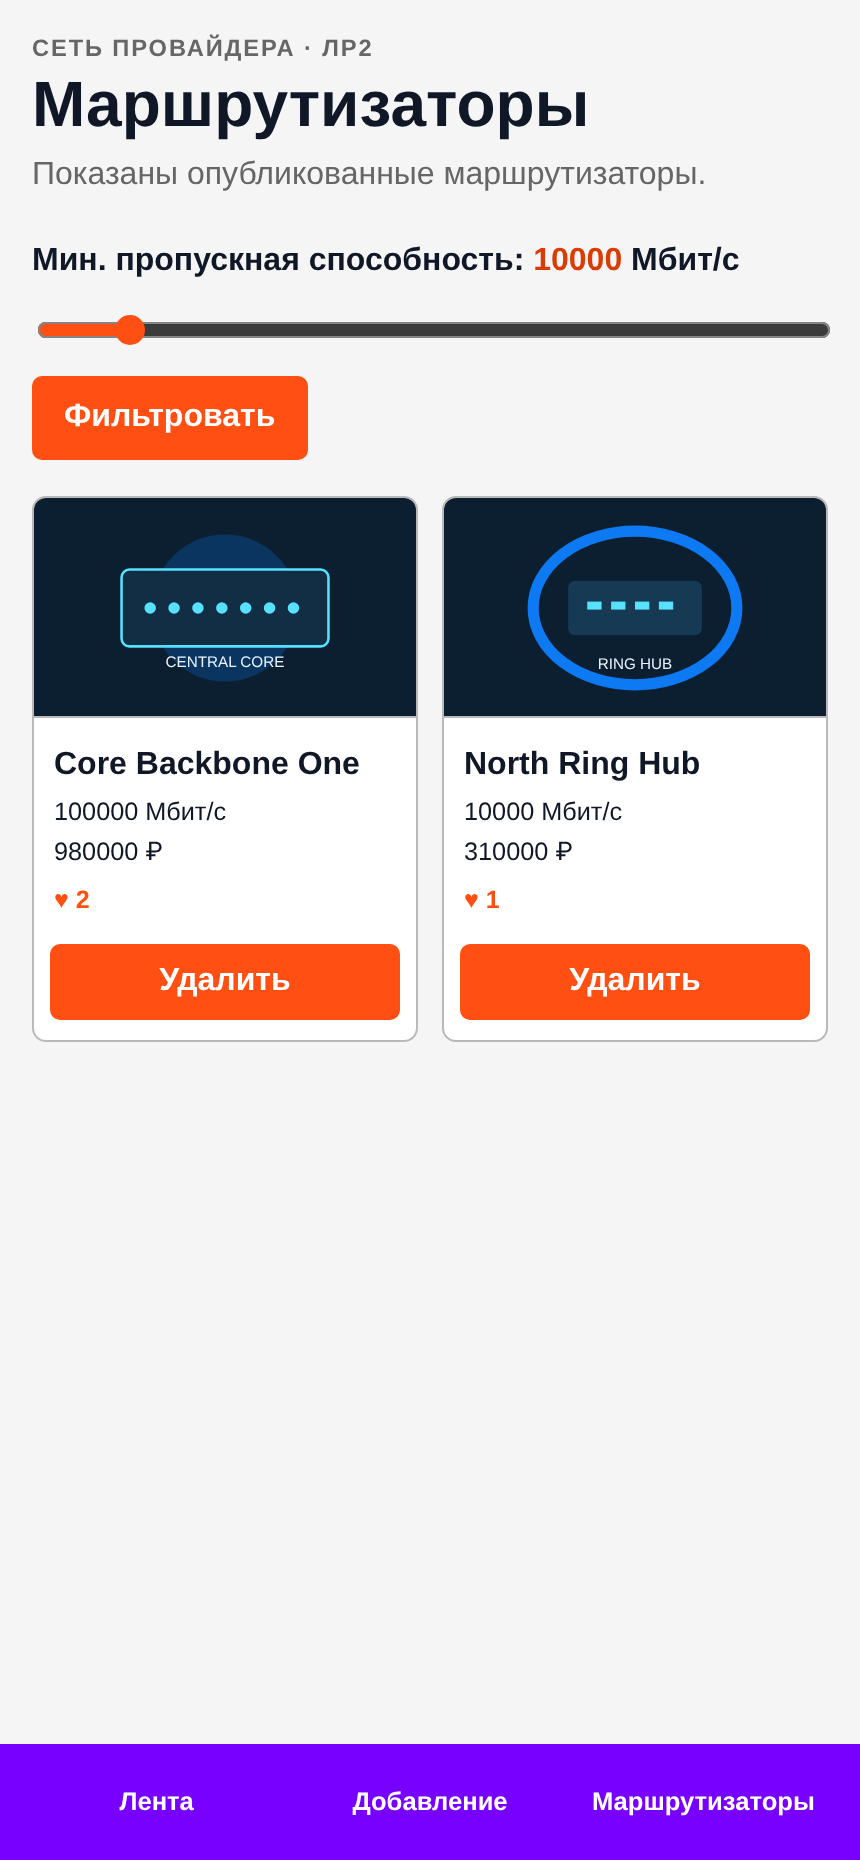
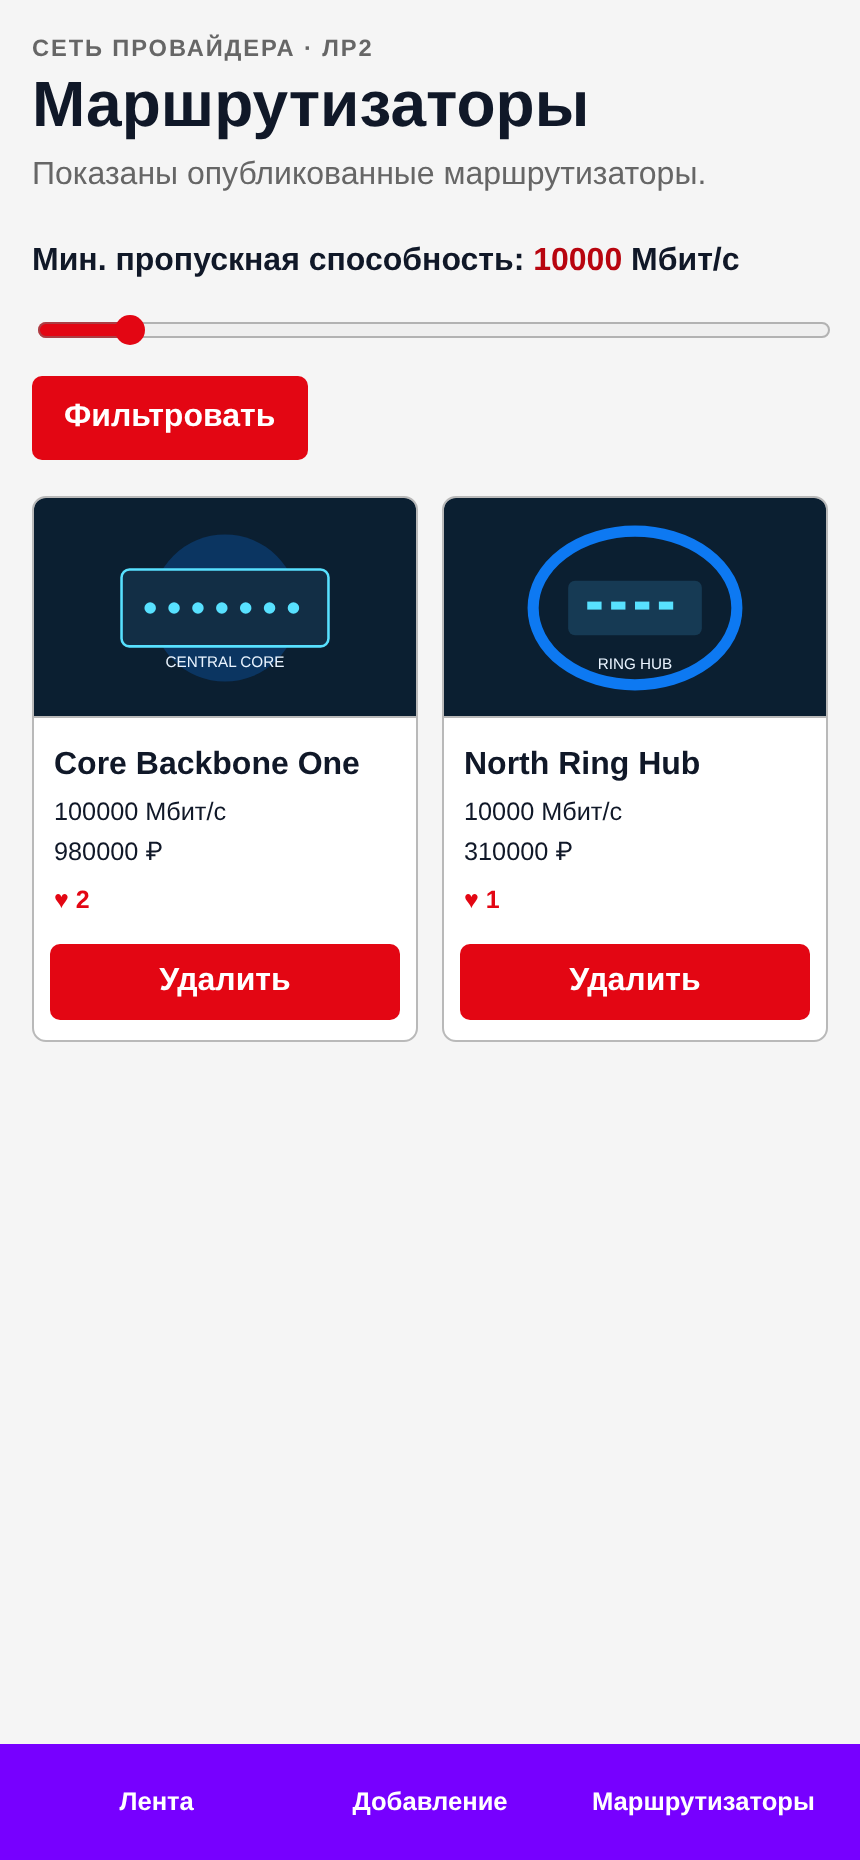
style: перекрасить кнопки в красный
Преподаватель требует красные кнопки, а фирменный цвет
источника #FF4F12 выглядел оранжевым. Кнопки теперь #E30613.

Changed region(s): [[0.0302, 0.1247, 0.9674, 0.2495], [0.514, 0.4677, 0.9674, 0.5613], [0.0605, 0.4989, 0.4837, 0.5613]]

diff --git a/static/styles.css b/static/styles.css
@@ -1,10 +1,12 @@
 /* ============================================================
    Источник дизайна: сайт провайдера «Ростелеком» — https://rt.ru
    (раздел «Домашний интернет»). Что скопировано:
-     - три фирменных цвета с точными кодами:
+     - фирменные цвета с точными кодами:
          фиолетовый  #7700FF — нижняя навигация, подписи-«eyebrow», hover карточек;
-         красно-оранжевый #FF4F12 — все кнопки и иконка «Следующий»;
          тёмно-синий #101828 — основной текст;
+     - красный #E30613 у всех кнопок и иконки «Следующий» — по требованию
+       преподавателя «все кнопки красные» (фирменный красно-оранжевый
+       Ростелекома #FF4F12 заменён на чистый красный);
      - кнопки прямоугольные с небольшим скруглением (5 px);
      - карточки белые с тонкой серой обводкой и тенью при наведении;
      - hover: кнопки темнеют, пункты навигации подсвечиваются, у карточки
@@ -12,8 +14,8 @@
    ============================================================ */
 
 :root {
-  --red: #FF4F12;       /* Ростелеком: красно-оранжевый — кнопки */
-  --red-dark: #D93D05;  /* hover кнопок */
+  --red: #E30613;       /* красный — все кнопки (требование преподавателя) */
+  --red-dark: #B8050F;  /* hover кнопок */
   --purple: #7700FF;    /* Ростелеком: фиолетовый — навигация */
   --ink: #101828;       /* Ростелеком: тёмно-синий — текст */
   --muted: #666;

diff --git a/README.md b/README.md
@@ -4,7 +4,7 @@
 
 ## Предметная область и интерфейс
 
-У маршрутизатора два параметра по теме: пропускная способность (Мбит/с) и стоимость (₽). Стиль взят с сайта провайдера «Ростелеком» (rt.ru): фиолетовая навигация `#7700FF`, красно-оранжевые кнопки `#FF4F12`, текст `#101828`, белые карточки с серой обводкой.
+У маршрутизатора два параметра по теме: пропускная способность (Мбит/с) и стоимость (₽). Стиль взят с сайта провайдера «Ростелеком» (rt.ru): фиолетовая навигация `#7700FF`, текст `#101828`, белые карточки с серой обводкой; все кнопки красные `#E30613`, прямоугольные со скруглением 5 px (красный — по требованию преподавателя вместо фирменного `#FF4F12`).
 
 - **Лента** — одна опубликованная запись; из БД приходит ровно одна строка (`First` → `LIMIT 1`). Описание в две строки с нативным «Ещё», справа — параметры, лайк и «Следующий».
 - **Добавление, шаг 1 («Далее»)** — только три поля: фото, видео (выбор из проводника) и название. Файлы на сервер не передаются; в таблицу записываются неверные ключи медиа (`provider_routers/not-uploaded.jpg`, `videos/not-uploaded.mp4`).

diff --git a/docs/figma/README.md b/docs/figma/README.md
@@ -8,4 +8,4 @@ SVG-экспорты трёх экранов `provider_routers` размером
 | `02-draft.svg` | добавление: сверху фото и видео, ниже текст и поля |
 | `03-routers.svg` | плитка маршрутизаторов со слайдером-фильтром |
 
-Цвета взяты с сайта-источника «Ростелеком»: `#7700FF`, `#FF4F12`, `#101828`. Исходный макет — в Figma; при сдаче показывается сам макет, эти файлы — его экспорт.
+Цвета: `#7700FF` и `#101828` — с сайта-источника «Ростелеком», кнопки красные `#E30613`. Исходный макет — в Figma; при сдаче показывается сам макет, эти файлы — его экспорт.
